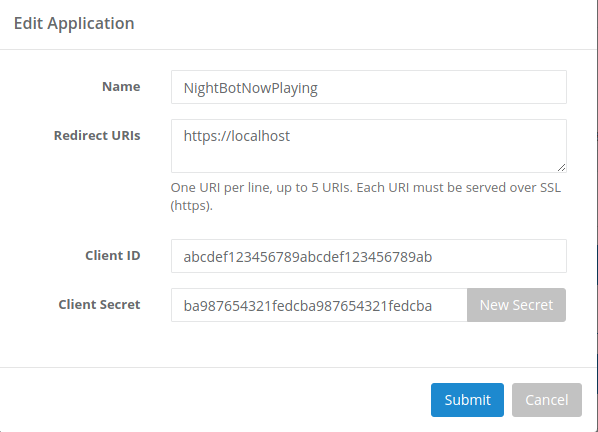
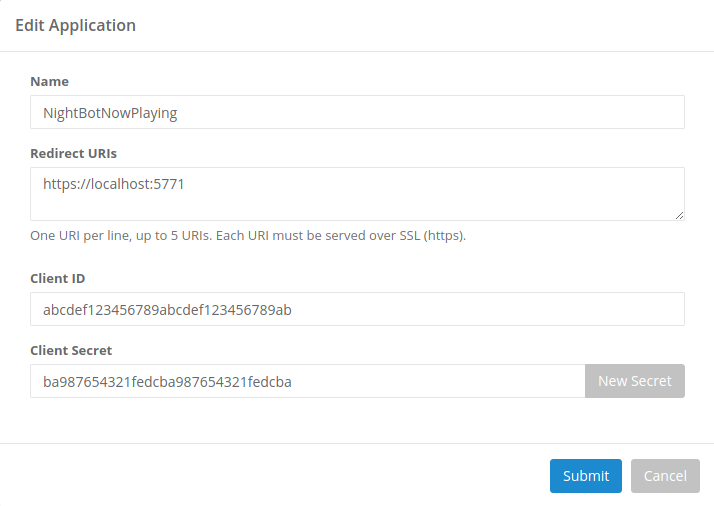
update redirect URL

diff --git a/nowplaying.py b/nowplaying.py
@@ -11,6 +11,7 @@ class Client:
     URI_AUTH = "https://api.nightbot.tv/oauth2/authorize"
     URI_TOKEN = "https://api.nightbot.tv/oauth2/token"
     URI_API = "https://api.nightbot.tv/1/"
+    URI_REDIRECT = "https://localhost:5771"
 
     def __init__(self):
         self.session = requests.Session()
@@ -28,7 +29,7 @@ class Client:
                 'client_id': auth_data['client_id'],
                 'client_secret': auth_data['client_secret'],
                 'scope': 'song_requests song_requests_queue',
-                'redirect_uri': 'https://localhost',
+                'redirect_uri': Client.URI_REDIRECT,
                 'response_type': 'code'
             }
         except KeyError:
@@ -46,7 +47,7 @@ class Client:
             'client_id': auth_data['client_id'],
             'client_secret': auth_data['client_secret'],
             'grant_type': 'authorization_code',
-            'redirect_uri': 'https://localhost',
+            'redirect_uri': Client.URI_REDIRECT,
             'code': code
         }
         try:

diff --git a/README.md b/README.md
@@ -5,7 +5,7 @@ Program for overlaying NightBot's current song on your stream
 You need to provide this program with access to NightBot in order to use it. This is done as follows:
 1. Go to your NightBot control panel's "Applications" page: https://nightbot.tv/account/applications
 2. Click on "New App" ([screenshot](res/applications_page.png))
-3. In the "Add an Application" window that comes up, input "NightBotNowPlaying" in the "Name" field and "https://localhost" in the "Redirect URIs" field ([screenshot](res/applications_add.png))
+3. In the "Add an Application" window that comes up, input "NightBotNowPlaying" in the "Name" field and "https://localhost:5771" in the "Redirect URIs" field
 4. Click "Submit"
 5. Click the orange edit button ([screenshot](res/applications_page_2.png))
 6. An "Edit Application" window should come up, displaying your Client ID and Client Secret ([screenshot](res/applications_edit.png)). To show the Client Secret, press the "New Secret" button.
